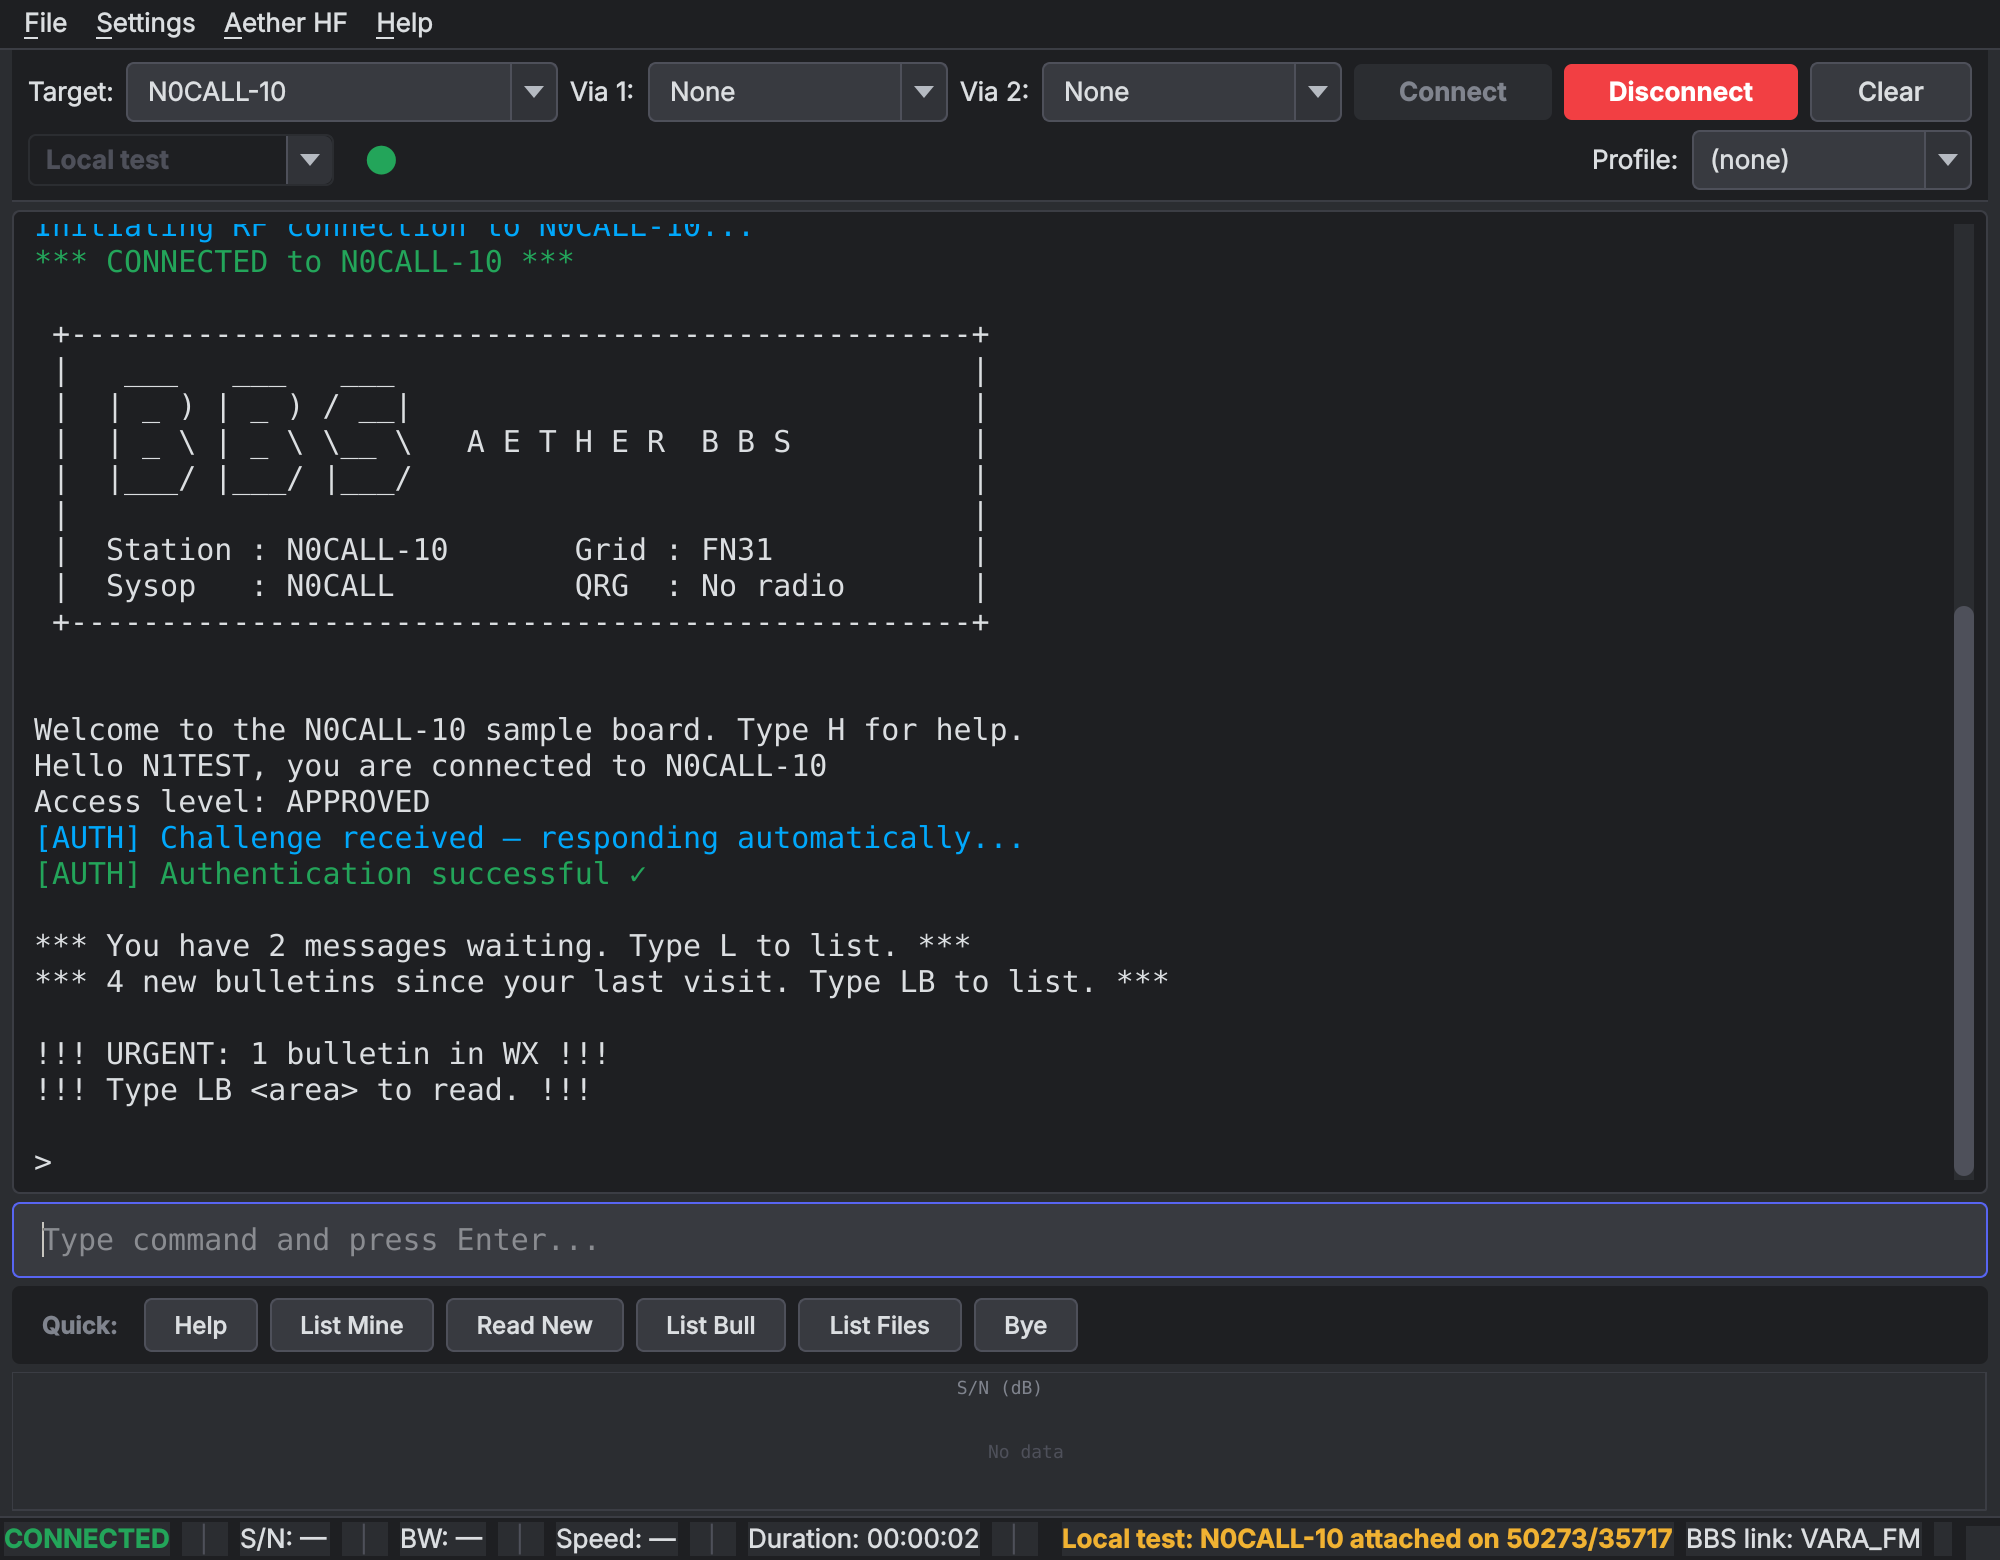
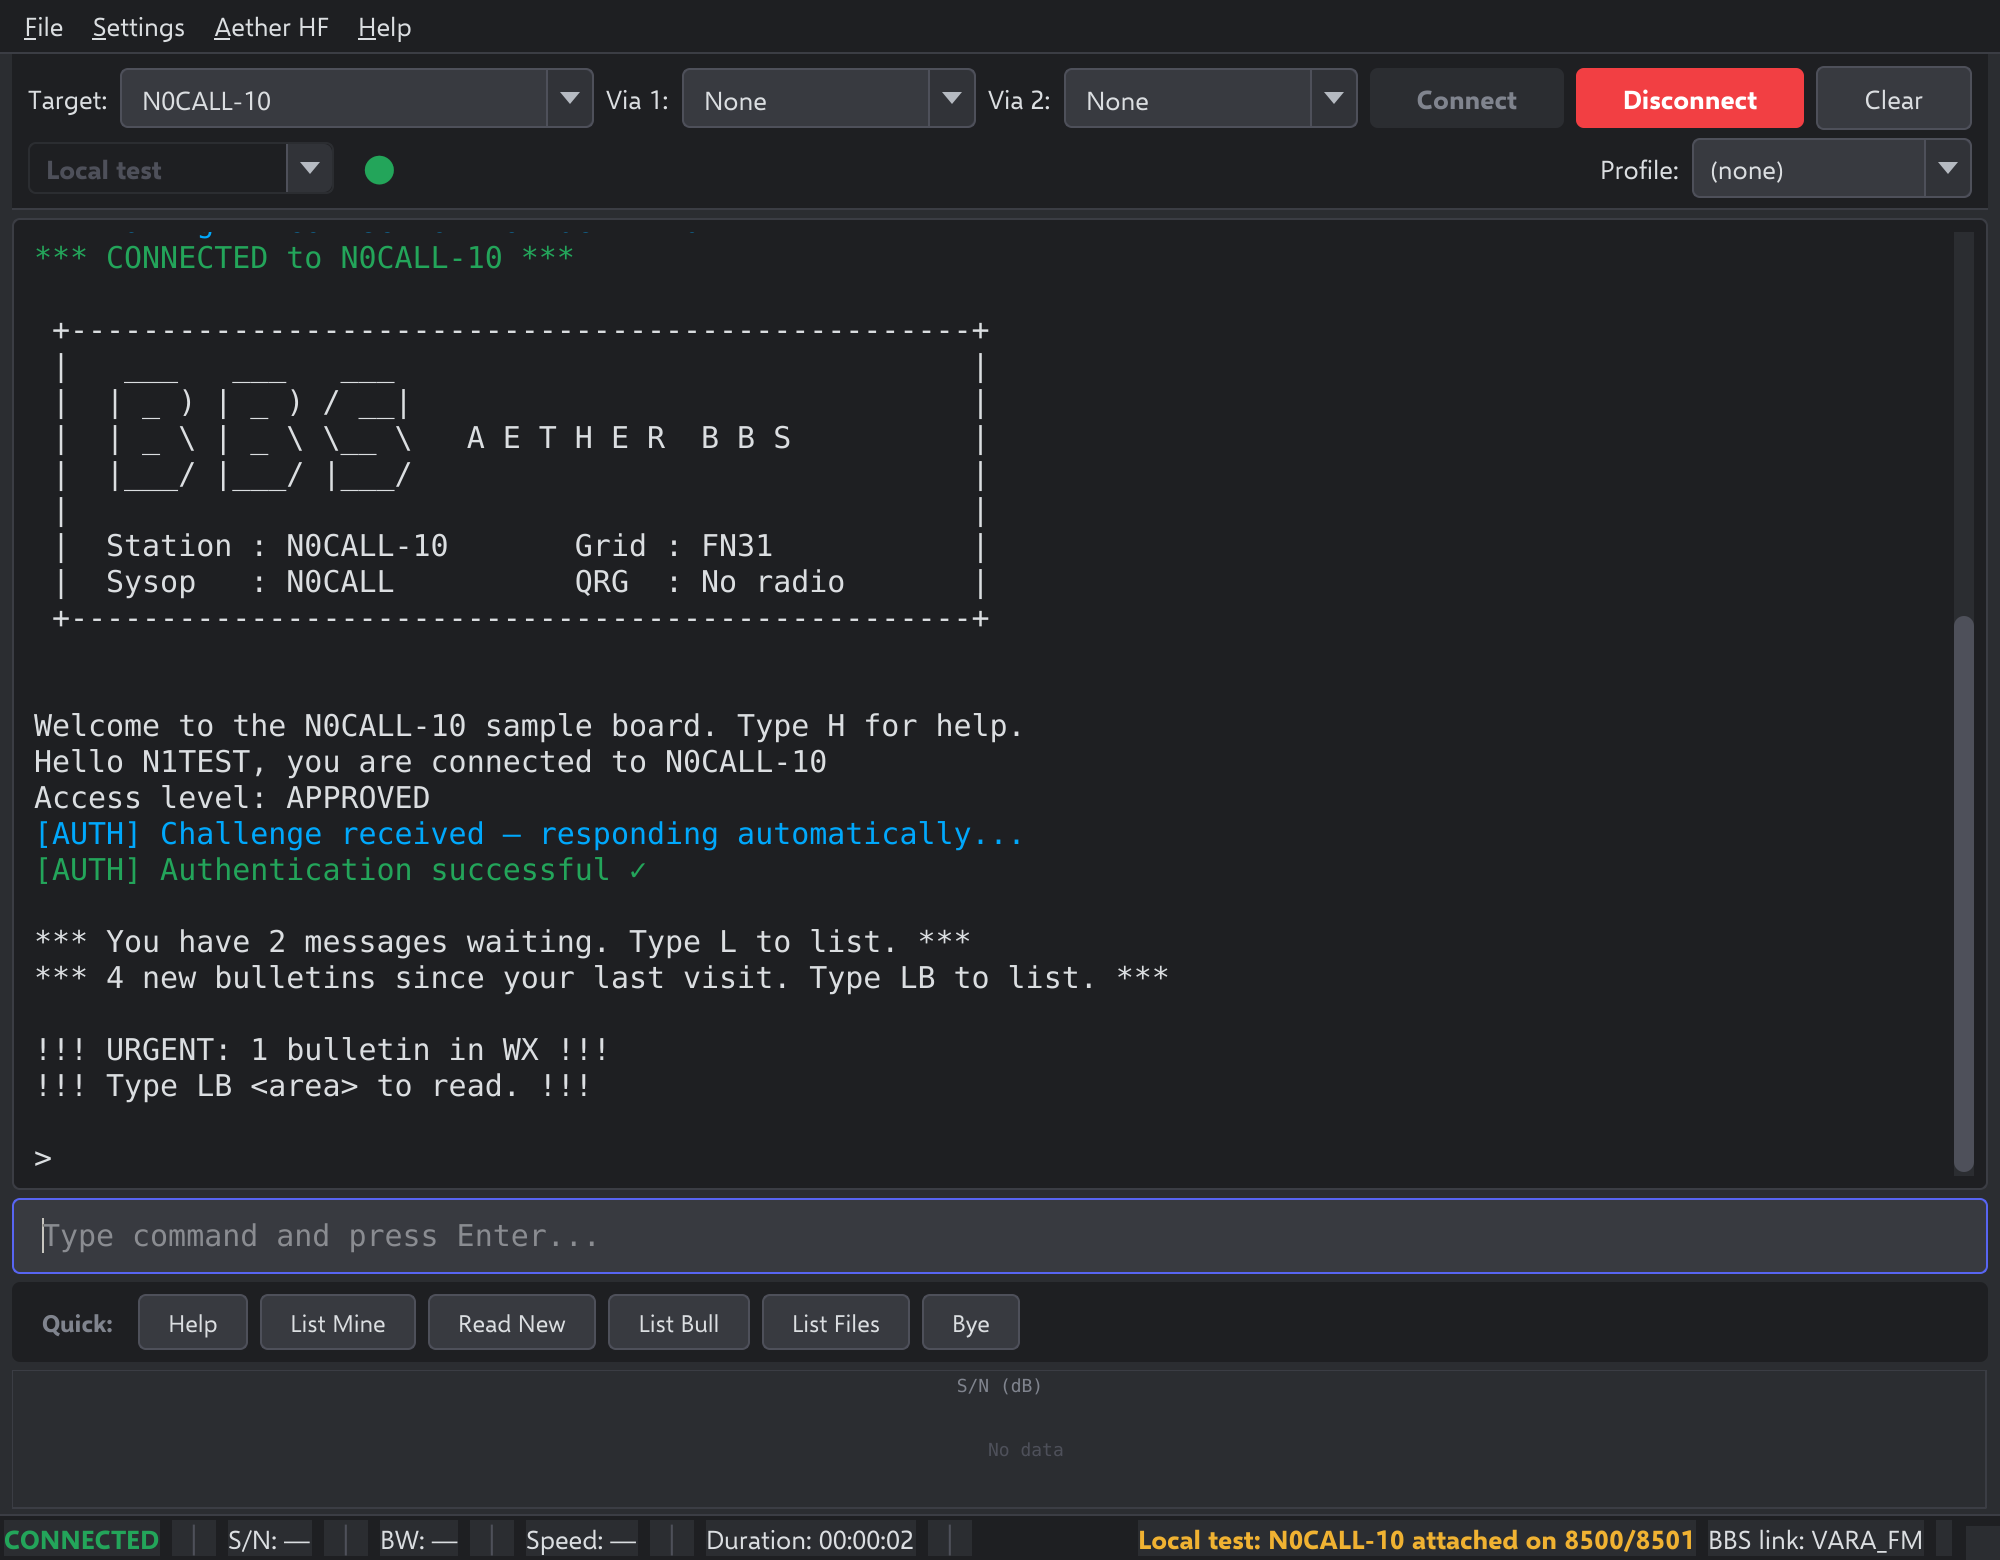
Make the pictures on Local test's own ports
The script took 8500/8501 only when a plain bind found them free, and a
run soon after another found them in TIME_WAIT and fell back to random
ports, which the status bar then showed. It now probes them the way the
local test modem binds them (SO_REUSEADDR off Windows).

Claude-Session: https://claude.ai/code/session_01QyQUNCcLY3vd48S5TgVe7F

diff --git a/tools/screens.py b/tools/screens.py
@@ -66,6 +66,8 @@ def _ports():
         for p in (8500, 8501):
             s = socket.socket()
             socks.append(s)
+            if os.name != "nt":      # as the modem binds: a port in TIME_WAIT is free
+                s.setsockopt(socket.SOL_SOCKET, socket.SO_REUSEADDR, 1)
             s.bind(("127.0.0.1", p))
         return [8500, 8501]
     except OSError:
